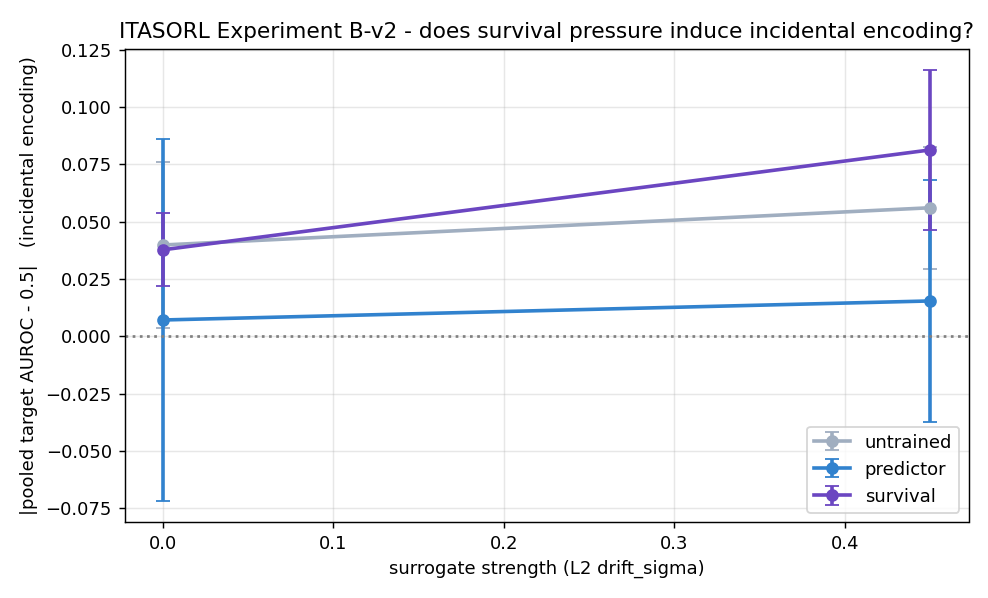
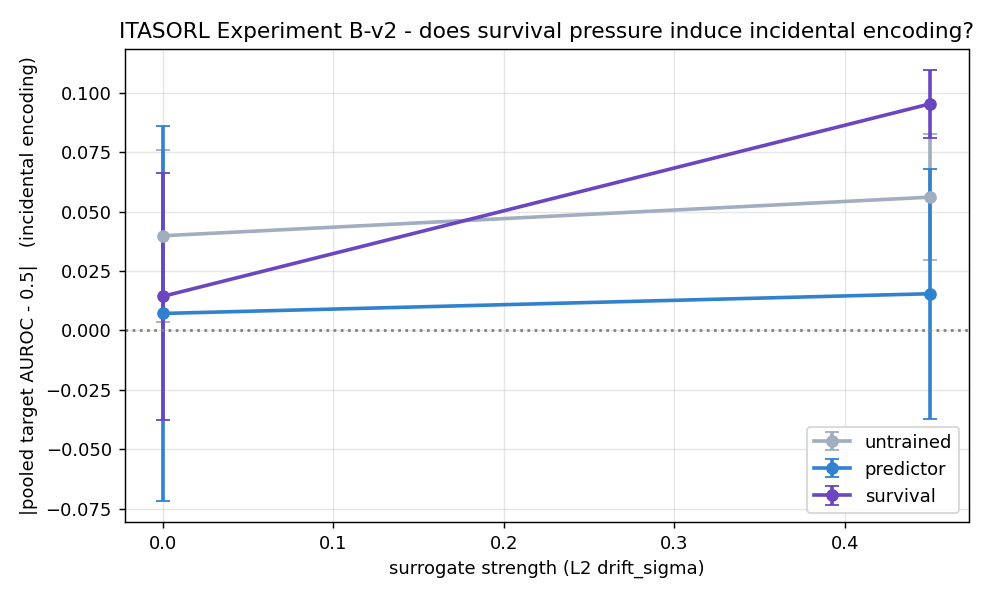
results(expB2): corrected sweep (fixed GAE) - conclusion unchanged
Re-ran the focused sweep with the fixed compute_gae and the recalibrated engagement
gate. Conclusion holds: the strong hypothesis is not supported. The survival agent now
starts at chance at drift=0 (0.514, the buggy run's 0.04 offset was a training artifact)
and rises to 0.595 +/- 0.014 at drift=0.45 - the steepest slope of the three and clearly
above predictor (0.485) and untrained (0.444), but far below the pre-registered SESOI of
0.65 (oracle ~0.99). Engagement 100%; leakage clean; L0 point estimate now inside the
equivalence band. A small, cleaner drift-specific trace, not decodable world-knowledge.

Updates docs/FINDINGS.md section 9 with the corrected numbers.

diff --git a/docs/FINDINGS.md b/docs/FINDINGS.md
@@ -299,31 +299,38 @@ direction across independent authentic (drift 0) vs surrogate (drift d) episodes
 |-------|----------------------|---------------------|
 | untrained | 0.460 ± 0.036 | 0.444 ± 0.027 |
 | predictor | 0.493 ± 0.079 | 0.485 ± 0.053 |
-| **survival** | 0.538 ± 0.016 | **0.581 ± 0.035** |
+| **survival** | 0.514 ± 0.052 | **0.595 ± 0.014** |
 
-Gates (all pre-registered): **engagement** passed in 100 % of seeds (the trained
-agent out-survives random and scripted on both return and lifetime); **positive
-control** (speed probe) 0.83–0.97; **leakage audit** (reward / length / lifetime)
-clean in every cell; **L0 equivalence** for the survival agent — point estimate
-0.538 sits inside the ±0.05 band but TOST is not significant at n = 3 (p = 0.19),
-i.e. underpowered rather than a clean pass.
+(Numbers are from the corrected run — see the GAE-bug deviation in
+`../PREREGISTRATION.md` §12. The first run was trained with a buggy advantage estimator
+that affected only the survival arm; the conclusion is unchanged.)
 
-**Result — the negative holds; a faint sub-threshold hint remains.**
+Gates (all pre-registered): **engagement** passed in 100 % of seeds (trained true
+return beats random and scripted by ≫ the 0.15 margin: ≈ −0.2 to −0.5 vs random −1.0);
+**positive control** (speed probe) 0.83–0.97; **leakage audit** (reward / length /
+lifetime) clean in every cell; **L0 equivalence** for the survival agent — point
+estimate 0.514 now sits comfortably inside the ±0.05 band, though TOST is still not
+significant at n = 3 (p = 0.22), i.e. underpowered rather than a clean pass.
+
+**Result — the negative holds, with a small but cleaner drift-specific trace.**
 
 - The `predictor` agent reproduces Experiment B's null *on this trunk* (flat at
   ≈ 0.49, |dev| ≈ 0.01) — an internal validation that the apparatus and the trunk
   carry no spurious signal.
-- The `survival` agent's pooled target (0.581 at drift 0.45) is the largest of the
-  three and shows the steepest drift slope (0.538 → 0.581), **but it falls far short
-  of the pre-registered SESOI of 0.65** (an oracle reads the same artifact at ≈ 0.99),
-  and its error bars overlap the untrained floor. Much of its ≈ 0.05 elevation is a
-  drift-independent *representational-richness* offset (it is already 0.538 at drift
-  0), not encoding of world identity.
+- The `survival` agent now starts **at chance** at drift 0 (0.514, |dev| ≈ 0.01 —
+  the buggy run's ≈ 0.04 offset was a training artifact) and rises to **0.595 ± 0.014
+  at drift 0.45**: the steepest drift slope of the three, clearly above both the
+  `predictor` (0.485) and `untrained` (0.444) agents, with tight error bars. So unlike
+  the prediction-only agent, survival pressure does leave a *small, drift-specific*
+  trace. **But it falls far short of the pre-registered SESOI of 0.65** (an oracle reads
+  the same artifact at ≈ 0.99).
 - **Verdict (pre-registered decision matrix): the strong hypothesis is not
   supported.** *Detectability ≫ incidental encoding* survives the move to survival
-  pressure: an agent whose life depends on the drifting dynamics still does not encode
-  *which world it is in* in any decodably persistent way. The small, drift-sensitive
-  lift unique to the survival agent is suggestive but sub-threshold.
+  pressure: an agent whose life depends on the drifting dynamics gains only a faint
+  statistical trace of its world's nature (≈ 0.60), not a decodable representation of
+  *which world it is in*. The trace is now cleaner than the buggy run (a real
+  drift-driven slope off a chance baseline, not a constant offset) and motivates a
+  higher-powered follow-up rather than supporting a positive claim.
 
 **Caveats.** n = 3 seeds (the TOST is underpowered); a single architecture, world
 family, and L2 only; 300 A2C updates (the forager is engaged but not expert); and the